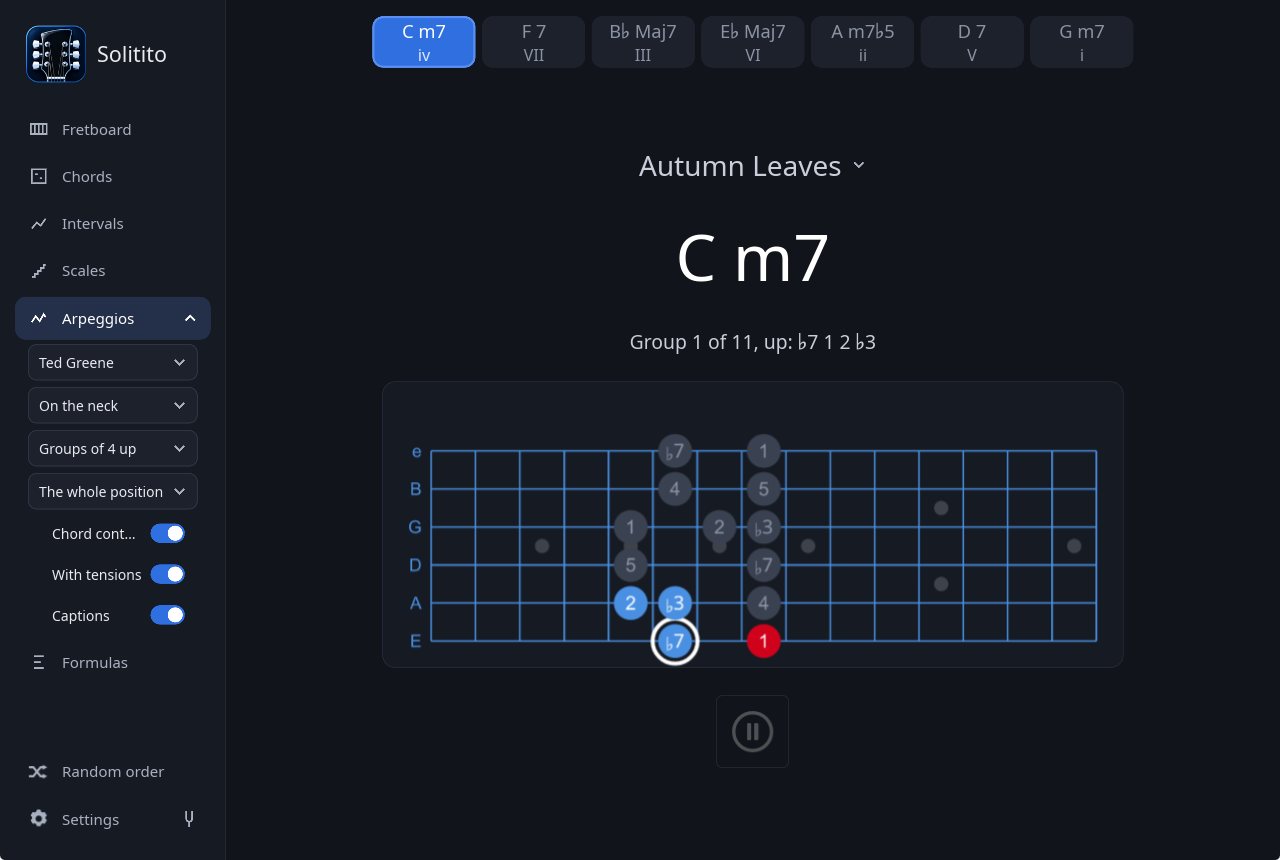
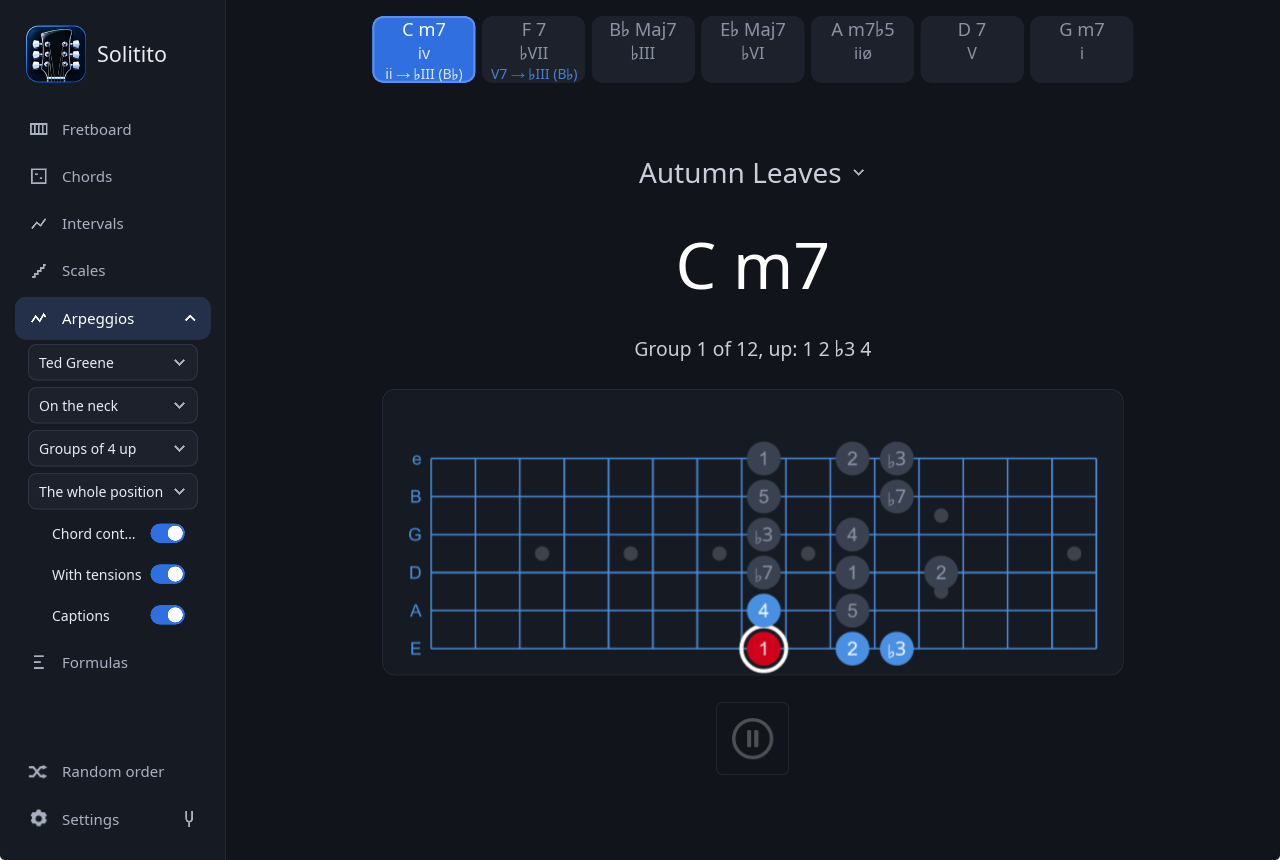
Lead as degree and chord; one chord, two points of reference
- the strip writes where a chord leads as V7 → ♭III (B♭)
- screenshots of Chords, Intervals and Arpeggios with the new strip
- progressions docs: Cm7 as iv in G minor and ii in B♭ major, the pivot chord

diff --git a/src/harmony.rs b/src/harmony.rs
@@ -234,10 +234,10 @@ impl Approach {
 }
 
 impl Lead {
-    /// What the chord is and the chord it goes to, by name: `V7 → B♭`,
-    /// `iiø → Gm`, `subV7 → C`. Named rather than numbered: under the degree,
-    /// a second numeral counted from the same tonic - `♭VII` over `V7/♭III` -
-    /// had to be worked out back into a chord before it said anything.
+    /// What the chord is and the degree it goes to, with that degree's chord
+    /// named after it: `V7 → ♭III (B♭)`, `iiø → i (Gm)`. The degree alone,
+    /// `♭VII` over `V7/♭III`, had to be worked out back into a chord; the name
+    /// alone left the target's place in the tune out.
     pub fn written(&self) -> String {
         let root = crate::tab::spell(&crate::model::NoteName::from_index(self.target_root).to_string());
         let kind = match self.target.kind {
@@ -246,7 +246,7 @@ impl Lead {
             Kind::HalfDiminished => "ø",
             Kind::Diminished => "°",
         };
-        format!("{} → {root}{kind}", self.approach.written())
+        format!("{} → {} ({root}{kind})", self.approach.written(), self.target.numeral())
     }
 }
 
@@ -278,14 +278,15 @@ mod tests {
         }
     }
 
-    /// The strip names the target: in G minor the F7 is ♭VII going to B♭.
+    /// The strip writes the target's degree and names its chord: in G minor
+    /// the F7 is ♭VII going to ♭III, B♭.
     #[test]
     fn a_lead_names_its_target_chord() {
         let leads: Vec<String> = analyse(&parse_chords_line_pub("Cm7 F7 BbMaj7 Ab7 Gm7"), 7)
             .iter()
             .filter_map(|a| a.lead.map(|lead| lead.written()))
             .collect();
-        assert_eq!(leads, ["ii → B♭", "V7 → B♭", "subV7 → Gm"]);
+        assert_eq!(leads, ["ii → ♭III (B♭)", "V7 → ♭III (B♭)", "subV7 → i (Gm)"]);
     }
 
     /// Bars 3 to 15 of Solar: every ii-V goes somewhere else, and the C7

diff --git a/docs/progressions_pl.md b/docs/progressions_pl.md
@@ -9,34 +9,73 @@ Gdy progresję już znasz, wyłącz pasek i miej kolejne akordy w głowie — zo
 
 <img width="700" alt="Pasek akordów Autumn Leaves ze stopniami i funkcjami" src="screenshots/solitito_strip_functions.png" />
 
-Każdy żeton ma trzy wiersze: akord, jego **stopień** w utworze i — drobniej — **dokąd prowadzi**. Na przykładzie
+Każdy akord na pasku zapisany jest w trzech wierszach: nazwa, jego **stopień** w utworze i — drobniej — **dokąd prowadzi**. Na przykładzie
 Autumn Leaves w g-moll:
 
 | Akord | Stopień | Dokąd | Co to znaczy |
 |---|---|---|---|
-| Cm7 | `iv` | `ii → B♭` | molowy na IV stopniu; tu ii w ii–V–I do B♭ |
-| F7 | `♭VII` | `V7 → B♭` | obniżony VII stopień (F, nie F♯); dominanta B♭ |
-| B♭maj7 | `♭III` | | cel: paralelna dur |
+| Cm7 | `iv` | `ii → ♭III (B♭)` | w g-moll `iv`, akord molowy na czwartym stopniu, a zarazem `ii` w B♭-dur, do którego prowadzi |
+| F7 | `♭VII` | `V7 → ♭III (B♭)` | w g-moll `♭VII`, na obniżonym siódmym stopniu (F, nie F♯), a zarazem `V` w B♭-dur: dominanta B♭ |
+| B♭maj7 | `♭III` | | cel: relatywna dur |
 | E♭maj7 | `♭VI` | | dalej po kole kwintowym |
 | Am7♭5 | `iiø` | | półzmniejszony ii molowego ii–V–i |
 | D7 | `V` | | dominanta tonacji: idzie do toniki, co mówi już stopień |
 | Gm7 | `i` | | tonika |
 
-Najpierw ii–V–I do paralelnej dur, potem molowe iiø–V–i do toniki.
+### Cała progresja: dwie kadencje
+
+Autumn Leaves to nie jedno ii–V–i, tylko dwie kadencje na zmianę:
+
+```
+Cm7   F7    B♭maj7  E♭maj7 │ Am7♭5  D7   Gm7
+ii    V     I       (IV)   │ iiø    V    i
+└── ii–V–I w B♭-dur ──┘      └── ii–V–i w g-moll ──┘
+```
+
+1. **ii–V–I w B♭-dur**, relatywnej dur: Cm7 F7 B♭maj7. Durowe ii–V–I ma ii molowe (m7) i tonikę maj7.
+2. **ii–V–i w g-moll**: Am7♭5 D7 Gm7. Molowe ma ii półzmniejszone (m7♭5) i tonikę molową.
+
+Między nimi E♭maj7 — w B♭-dur IV, w g-moll ♭VI — przeprowadza z jednej tonacji do drugiej. Całość idzie po kole
+kwintowym, każdy akord kwartę wyżej od poprzedniego: C → F → B♭ → E♭ → A → D → G. W jednym chorusie są więc obie
+odmiany ii–V, durowa i molowa, w tonacjach relatywnych, czyli na tych samych dźwiękach. Części utworu układają te
+dwie kadencje w różnej kolejności: pierwsze zaczynają od durowej i kończą molową, środkowa (Am7♭5 D7 Gm7, potem
+Cm7 F7 B♭maj7 E♭maj7) odwrotnie.
+
+Na pasku widać to po dopiskach: pierwsza kadencja ma `→ ♭III (B♭)`, druga nie ma żadnych, bo prowadzi do toniki,
+co mówi już stopień.
+
+### Jeden akord, dwa punkty odniesienia
+
+Stopień i dopisek liczą od dwóch różnych dźwięków. **Stopień** liczy od toniki utworu, **dopisek** — od akordu,
+do którego ten akord właśnie prowadzi. Weźmy Cm7:
+
+| Liczone od | Kolejne stopnie | C to | Cm7 to |
+|---|---|---|---|
+| G — tonika utworu, g-moll | G A B♭ **C** D E♭ F | 4. stopień | `iv` |
+| B♭ — cel, B♭-dur | B♭ **C** D E♭ F G A | 2. stopień | `ii` |
+
+Oba zapisy są prawdziwe naraz, bo g-moll i B♭-dur to tonacje relatywne: mają te same dźwięki, różnią się tylko tym,
+gdzie jest dom. Cm7 F7 B♭maj7 to w g-moll `iv ♭VII ♭III`, a w B♭-dur `ii V I`. Ucho słyszy w tym miejscu krótką
+kadencję do B♭, po czym utwór wraca do g-moll przez Am7♭5 i D7. Taki akord, który znaczy jedno w jednej tonacji
+i drugie w drugiej, nazywa się akordem wspólnym (ang. *pivot chord*).
+
+Czyli górny wiersz mówi, **gdzie akord stoi w całym utworze**, a dolny — **jaką rolę gra teraz**, w lokalnym
+ii–V–I. W praktyce: nad Cm7 F7 B♭maj7 można myśleć „B♭-dur” i grać to, co zna się z ii–V–I, zamiast liczyć
+wszystko od G. Dopisek mówi, w którą tonację na chwilę przejść; stopień — gdzie się jest, gdy z niej się wraca.
 
 **Stopień** liczony jest od toniki utworu na skali durowej, ze znakiem: w g-moll `F7` to `♭VII`, a `F♯°` to `vii°`.
 Wielka litera nad tercją wielką, mała nad małą. `ø` to akord półzmniejszony (m7♭5: kwinta zmniejszona, septyma
 mała), `°` zmniejszony (dim7: kwinta i septyma zmniejszone). Akord zmniejszony między dwoma stopniami liczony jest
 od dolnego: `F♯°` w F to `♯i°`. Stopnie liczone są od toniki, więc po transpozycji są takie same.
 
-**Dokąd** stoi tylko wtedy, gdy akord prowadzi gdzie indziej niż do toniki, a cel podany jest nazwą akordu:
+**Dokąd** stoi tylko wtedy, gdy akord prowadzi gdzie indziej niż do toniki, a cel podany jest stopniem w utworze, z nazwą akordu w nawiasie — `V7 → ♭III (B♭)`:
 
 - `V7 → x` — dominanta, po której następny inny akord leży kwintę niżej. Powtórzona (`C7 C7 F`) prowadzi z obu taktów.
 - `subV7 → x` — dominanta rozwiązująca się pół tonu w dół, podstawienie trytonowe; podpisane także przy tonice,
   bo sam stopień `♭II` tego nie mówi.
 - `ii → x`, `iiø → x` — akord molowy albo półzmniejszony przed taką dominantą.
 - ii–V bez rozwiązania (`Em7 A7 Em7 A7` w Satin Doll) podaje cel, który zapowiada.
-- W łańcuchu dominant każda prowadzi do najbliższej: `A7 D7 G7 C` to `V7 → D`, `V7 → G`, `V`, `I`.
+- W łańcuchu dominant każda prowadzi do najbliższej: `A7 D7 G7 C` to `V7 → II (D)`, `V7 → V (G)`, `V`, `I`.
 
 Bez dopisku zostają: dominanta na tonice bluesa (`I7`), backdoor (`Fm7 B♭7 → C` to `iv ♭VII I`) i dominanta, która
 nigdzie się nie rozwiązuje. Pasek gra w kółko, więc ostatni akord prowadzi do pierwszego.

diff --git a/docs/progressions.md b/docs/progressions.md
@@ -9,20 +9,60 @@ now but also where it stands in the tune and where it leads. Turn it on with **D
 
 <img width="700" alt="The Autumn Leaves chord strip with degrees and functions" src="screenshots/solitito_strip_functions.png" />
 
-Each chip has three lines: the chord, its **degree** in the tune and — smaller — **where it leads**. Autumn Leaves
+Each chord in the strip is written on three lines: its name, its **degree** in the tune and — smaller — **where it leads**. Autumn Leaves
 in G minor:
 
 | Chord | Degree | Leads | What it means |
 |---|---|---|---|
-| Cm7 | `iv` | `ii → B♭` | minor on the fourth degree; here the ii of a ii–V–I to B♭ |
-| F7 | `♭VII` | `V7 → B♭` | the flat seventh degree (F, not F♯); the dominant of B♭ |
+| Cm7 | `iv` | `ii → ♭III (B♭)` | in G minor `iv`, the minor chord on the fourth degree, and at the same time `ii` in B♭ major, where it leads |
+| F7 | `♭VII` | `V7 → ♭III (B♭)` | in G minor `♭VII`, on the flat seventh degree (F, not F♯), and at the same time `V` in B♭ major: its dominant |
 | B♭maj7 | `♭III` | | the target: the relative major |
 | E♭maj7 | `♭VI` | | on round the cycle of fifths |
 | Am7♭5 | `iiø` | | the half-diminished ii of a minor ii–V–i |
 | D7 | `V` | | the key's dominant: it goes home, which the degree already says |
 | Gm7 | `i` | | home |
 
-First a ii–V–I to the relative major, then a minor iiø–V–i home.
+### The whole progression: two cadences
+
+Autumn Leaves is not one ii–V–i but two cadences in turn:
+
+```
+Cm7   F7    B♭maj7  E♭maj7 │ Am7♭5  D7   Gm7
+ii    V     I       (IV)   │ iiø    V    i
+└── ii–V–I in B♭ major ─┘   └── ii–V–i in G minor ─┘
+```
+
+1. **ii–V–I in B♭ major**, the relative major: Cm7 F7 B♭maj7. The major ii–V–I has a minor ii (m7) and a maj7 home.
+2. **ii–V–i in G minor**: Am7♭5 D7 Gm7. The minor one has a half-diminished ii (m7♭5) and a minor home.
+
+Between them E♭maj7 — IV in B♭ major, ♭VI in G minor — leads from one key to the other. The whole runs round the
+cycle of fifths, each chord a fourth above the last: C → F → B♭ → E♭ → A → D → G. One chorus holds both kinds of
+ii–V, major and minor, in relative keys, so on the same notes. The parts of the tune put the two cadences in a
+different order: the first ones start with the major and end with the minor, the middle one (Am7♭5 D7 Gm7, then
+Cm7 F7 B♭maj7 E♭maj7) the other way round.
+
+In the strip it shows in the leads: the first cadence has `→ ♭III (B♭)`, the second none, as it goes home, which
+the degree already says.
+
+### One chord, two points of reference
+
+The degree and the lead count from two different notes. The **degree** counts from the tune's home, the **lead**
+from the chord this one is going to. Take Cm7:
+
+| Counted from | The degrees in turn | C is | Cm7 is |
+|---|---|---|---|
+| G — the home, G minor | G A B♭ **C** D E♭ F | the 4th degree | `iv` |
+| B♭ — the target, B♭ major | B♭ **C** D E♭ F G A | the 2nd degree | `ii` |
+
+Both are true at once, as G minor and B♭ major are relative keys: the same notes, a different home. Cm7 F7 B♭maj7
+is `iv ♭VII ♭III` in G minor and `ii V I` in B♭ major. The ear hears a short cadence to B♭ here, and then the tune
+goes back to G minor through Am7♭5 and D7. A chord that means one thing in one key and another in a second is
+called a pivot chord.
+
+So the upper line says **where the chord stands in the whole tune**, the lower **what part it plays now**, in the
+local ii–V–I. In practice: over Cm7 F7 B♭maj7 you can think "B♭ major" and play what you know from a ii–V–I,
+rather than count everything from G. The lead says which key to step into for a while; the degree where you are
+when you come back.
 
 The **degree** is counted from the tune's home on the major scale, with its accidental: in G minor an `F7` is
 `♭VII` and an `F♯°` `vii°`. Upper case over a major third, lower over a minor one. `ø` is half-diminished (m7♭5: a
@@ -30,14 +70,14 @@ diminished fifth, a minor seventh), `°` diminished (dim7: fifth and seventh dim
 two degrees is counted from the lower: `F♯°` in F is `♯i°`. Degrees are counted from home, so a transposed tune
 keeps them.
 
-**Leads** is shown only when the chord goes somewhere other than home, and names the target chord:
+**Leads** is shown only when the chord goes somewhere other than home, and gives the target as its degree in the tune, the chord named in brackets — `V7 → ♭III (B♭)`:
 
 - `V7 → x` — a dominant whose next different chord lies a fifth below. Repeated (`C7 C7 F`), it leads from both bars.
 - `subV7 → x` — a dominant resolving a semitone down, the tritone substitute; shown going home too, as `♭II`
   alone does not say it.
 - `ii → x`, `iiø → x` — the minor or half-diminished chord before such a dominant.
 - An unresolved ii–V (`Em7 A7 Em7 A7` in Satin Doll) names the target it implies.
-- In a chain of dominants each leads to the nearest: `A7 D7 G7 C` is `V7 → D`, `V7 → G`, `V`, `I`.
+- In a chain of dominants each leads to the nearest: `A7 D7 G7 C` is `V7 → II (D)`, `V7 → V (G)`, `V`, `I`.
 
 Left without a lead: the dominant on the home of a blues (`I7`), the backdoor (`Fm7 B♭7 → C` is `iv ♭VII I`), and a
 dominant that resolves nowhere. The strip plays round, so the last chord leads to the first.

diff --git a/docs/settings_pl.md b/docs/settings_pl.md
@@ -80,7 +80,7 @@ zakładka, a trener gryfu, który nie ma własnych ustawień, nie pokazuje jej w
 | **Zapis jazzowy** | Skale, skale akordowe w Interwałach i Formuły: to, co leży między składnikami akordu, nazywane jest napięciem nad nim — `b9` zamiast `b2`, `11` zamiast `4`, `13` zamiast `6` — więc frygijska dominantowa to `1 b9 3 4 5 b13 b7`. Zwykła `4` nad tercją wielką zostaje `4`: leży półton nad tercją, więc się przez nią przechodzi, a nie zatrzymuje. Nic nie jest liczone ponad oktawę: pryma na górze to znów `1`, a wysokość widać na gryfie. Domyślnie wyłączony; listy ćwiczeń zawsze mają zwykłe stopnie |
 | **Pasek akordów** (szybka opcja, Akordy i Interwały) | Akordy, Interwały i Arpeggia po zmianach: akordy utworu na górze okna, bieżący i te wokół niego. Domyślnie włączony. Pomaga oswoić się z progresją; gdy ją znasz, wyłącz go i miej kolejne akordy w głowie — zobacz [Ćwiczenie interwałów](intervals-practice_pl.md#gra-bez-paska-akordów) |
 | **Opisy** (szybka opcja, Interwały, Skale i Arpeggia) | Linia nad ćwiczeniem mówiąca, co zagrać teraz: w którą stronę, od którego dźwięku do którego, a w ćwiczeniu Ted Greene — która grupa. Domyślnie włączone |
-| **Stopnie na pasku akordów** | Akordy, Interwały i Arpeggia po zmianach: każdy akord na pasku pokazuje swój stopień w utworze, a pod nim — gdy prowadzi gdzie indziej niż do toniki — dokąd idzie: `V7 → B♭`. Zobacz [Analiza i nauka progresji](progressions_pl.md) |
+| **Stopnie na pasku akordów** | Akordy, Interwały i Arpeggia po zmianach: każdy akord na pasku pokazuje swój stopień w utworze, a pod nim — gdy prowadzi gdzie indziej niż do toniki — dokąd idzie: `V7 → ♭III (B♭)`. Zobacz [Analiza i nauka progresji](progressions_pl.md) |
 | **Prowadzenie głosów** | Interwały, przy włączonym losowaniu: każdy akord zaczyna się od składnika najbliższego ostatnio zagranemu dźwiękowi, nigdy od tego samego, więc wylosowane ćwiczenie dalej czyta się jak linia |
 | **Pokazuj schematy akordów** | Miniatury diagramów pod nazwą akordu w trybie Akordy |
 | **Schematy** | Dwa pola: pełne akordy i shell voicings — tercja i septyma nad prymą. Zaznaczone oba rysują oba, żadne nie rysuje nic. Powyżej czterech schematów rysowane są w dwóch rzędach. `m7b5` nie ma własnego shella: jego shell to co do dźwięku shell `m7`, bo różni je wyłącznie kwinta, więc to właśnie jest rysowane, z podpisem *substytut: shell m7*. Gdy na ekranie są same shelle, ten chwyt jest tym, o który program prosi, więc jego zagranie przechodzi na zielono; gdy rysowane są też pełne schematy, odczyt `m7` oznacza pominiętą obniżoną kwintę i zostaje żółty. Akord zmniejszony septymowy nie ma czego pominąć — cztery dźwięki co małą tercję, bez pary tercja-septyma, którą można by zachować — więc zostaje przy pełnych chwytach, z podpisem mówiącym, czym one też są: `7b9` bez prymy, o pół tonu poniżej każdego swojego dźwięku |

diff --git a/docs/settings.md b/docs/settings.md
@@ -80,7 +80,7 @@ fretboard trainer, which has no settings of its own, does not show it at all:
 | **Jazz notation** | Scales, the chord scales of Intervals and Formulas: what falls between the chord's tones is named as a tension above it — `b9` for `b2`, `11` for `4`, `13` for `6` — so the Phrygian dominant reads `1 b9 3 4 5 b13 b7`. A plain `4` over a major third stays `4`: a semitone above the third, it is a note to pass over, not to hold. Nothing is counted past the octave: the root on top is `1` again, and how high is on the neck. Off by default; the exercise lists keep their plain degrees either way |
 | **Chord strip** (quick option, Chords and Intervals) | Chords, Intervals and Arpeggios over the changes: the chords of the tune at the top of the window, the current one and those around it. On by default. It helps while you get to know a progression; once you do, turn it off and keep the next chords in your head — see [Practising intervals](intervals-practice.md#playing-without-the-chord-strip) |
 | **Captions** (quick option, Intervals, Scales and Arpeggios) | A line above the exercise saying what to play now: which way, from which note to which, and in Ted Greene which group. On by default |
-| **Degrees in the chord strip** | Chords, Intervals and Arpeggios over the changes: each chord in the strip shows its degree in the tune and under it — when it leads somewhere other than home — where it goes: `V7 → B♭`. See [Analysing and learning progressions](progressions.md) |
+| **Degrees in the chord strip** | Chords, Intervals and Arpeggios over the changes: each chord in the strip shows its degree in the tune and under it — when it leads somewhere other than home — where it goes: `V7 → ♭III (B♭)`. See [Analysing and learning progressions](progressions.md) |
 | **Voice leading** | Intervals, with the shuffle on: each chord starts on its tone nearest the last one played, never on the same note, so a shuffled exercise still reads as a line |
 | **Show chord shapes** | The diagram thumbnails under the chord name in Chords mode |
 | **Shapes** | Two boxes: the full grips and shell voicings — third and seventh over the root. Both ticked draws both, neither draws none. Past four shapes they are drawn in two rows. A `m7b5` has no shell of its own: its shell is the `m7` shell note for note, since the fifth is the only place the two differ, so that is what is drawn, captioned *substitute: the m7 shell*. With shells the only shapes on screen that grip is the one being asked for, so playing it passes green; with the full shapes drawn too, a `m7` reading means the flat fifth was missed and it stays yellow. A diminished seventh has nothing to leave out — its four notes are all a minor third apart, with no third-and-seventh pair to keep — so it keeps its full grips, captioned with what they also are: a `7b9` without its root, from a semitone below any of its notes |

diff --git a/README.md b/README.md
@@ -125,7 +125,7 @@ The rest of the documentation is in `docs/`:
 | | |
 |---|---|
 | [**Practising intervals**](docs/intervals-practice.md) | The fifty exercises group by group, with what each one asks over every kind of chord, how to read the list, and a II–V–I to try them on |
-| [**Analysing and learning progressions**](docs/progressions.md) | What the degrees and functions in the chord strip mean — `♭VII`, `V7 → B♭`, `subV7` — on Autumn Leaves, and the rules the app finds them by |
+| [**Analysing and learning progressions**](docs/progressions.md) | What the degrees and functions in the chord strip mean — `♭VII`, `V7 → ♭III (B♭)`, `subV7` — on Autumn Leaves, and the rules the app finds them by |
 | [**Practising arpeggios**](docs/arpeggios-practice.md) | A set of exercises in four groups: the studies, the arpeggio over the changes, Ted Greene's exercises in one position and Harris lines |
 | [**Practising with formulas**](docs/formulas-practice.md) | Step by step through the three formula exercises: what to play, what to listen for, and what each row on the screen is telling you |
 | [Choosing an input](docs/audio-input.md) | What the device names mean on Linux, where settings are stored, the diagnostic modes, and recording a session with what the app made of it |

diff --git a/README_pl.md b/README_pl.md
@@ -125,7 +125,7 @@ Reszta dokumentacji w `docs/`:
 | | |
 |---|---|
 | [**Ćwiczenie interwałów**](docs/intervals-practice_pl.md) | Pięćdziesiąt ćwiczeń grupa po grupie: co każde każe zagrać nad każdym rodzajem akordu, jak czytać listę i II–V–I do wypróbowania |
-| [**Analiza i nauka progresji**](docs/progressions_pl.md) | Co znaczą stopnie i funkcje na pasku akordów — `♭VII`, `V7 → B♭`, `subV7` — na przykładzie Autumn Leaves, i reguły, którymi program je wyznacza |
+| [**Analiza i nauka progresji**](docs/progressions_pl.md) | Co znaczą stopnie i funkcje na pasku akordów — `♭VII`, `V7 → ♭III (B♭)`, `subV7` — na przykładzie Autumn Leaves, i reguły, którymi program je wyznacza |
 | [**Ćwiczenie arpeggiów**](docs/arpeggios-practice_pl.md) | Zestaw ćwiczeń w czterech grupach: studia, arpeggio na zmianach, ćwiczenia Teda Greene'a w jednej pozycji i linie Harrisa |
 | [**Ćwiczenie z formułami**](docs/formulas-practice_pl.md) | Trzy ćwiczenia z formułami krok po kroku: co grać, czego słuchać, co to za szyfry na ekranie |
 | [Wybór wejścia](docs/audio-input_pl.md) | Co znaczą nazwy urządzeń w Linuksie, gdzie trzymane są ustawienia i jakie są tryby diagnostyczne |
